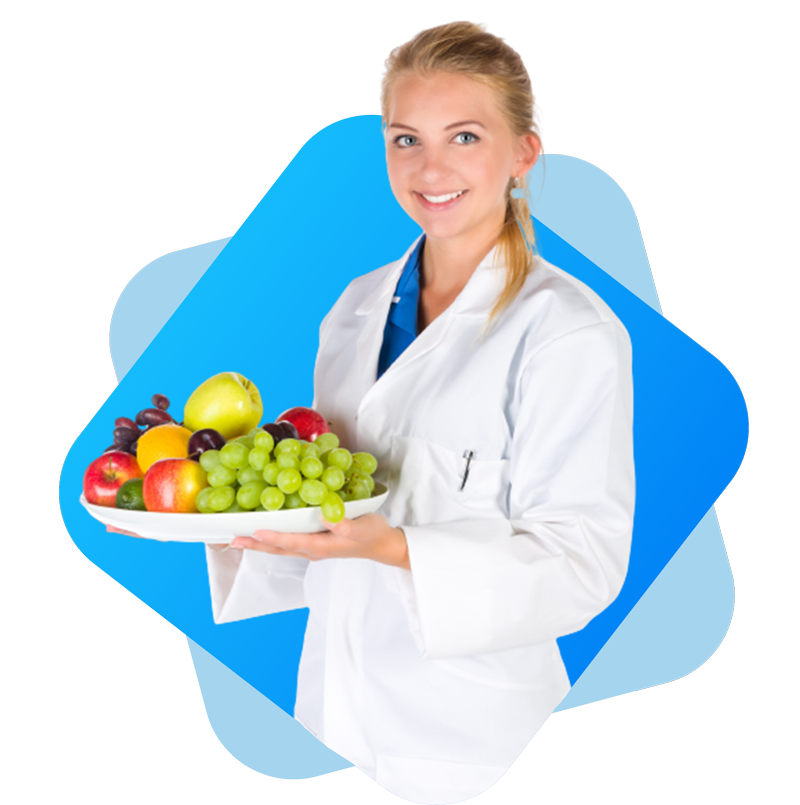
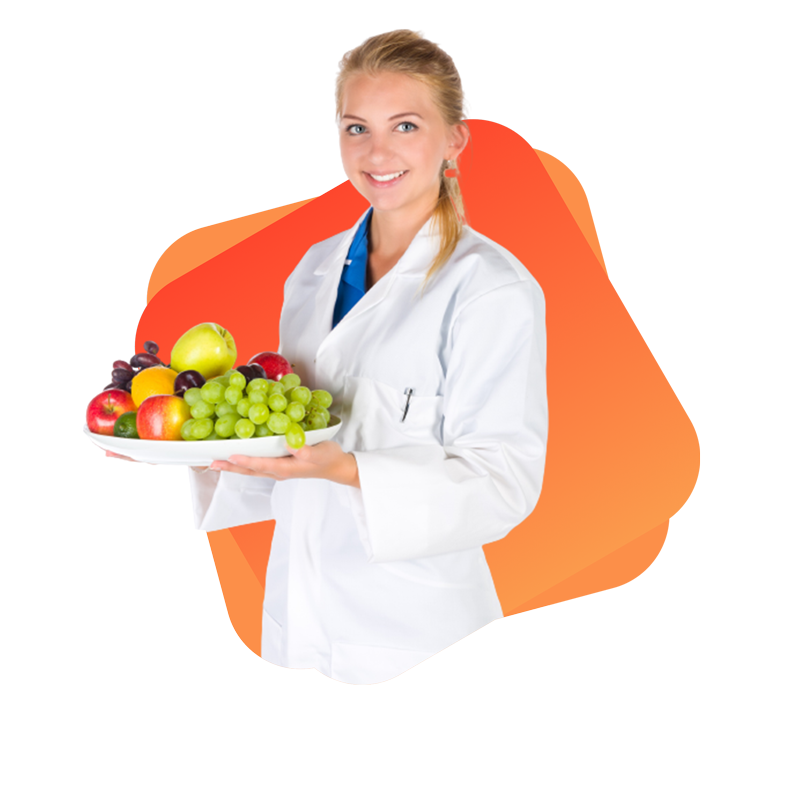
changed design

diff --git a/index.html b/index.html
@@ -106,21 +106,19 @@
       <div class="center-in-div">
         <div class="half-width">
             <p>
-                Apples are popular fruit, containing antioxidants, vitamins,
-                dietary fiber and a range of other nutrients.
+                "The way fruits were are really great. Hope to buy fresh and organic fruits soon.""
               </p>
           
-              <h4 class="testimonial-item">Apple</h4>
+              <h4>Phil Foden </h4>
            
                 <img class="testimonial-item " src="images/img-testimonial-person-1.png" alt="apple" />
               </div>
           <div class="half-width">
             <p>
-                Apples are popular fruit, containing antioxidants, vitamins,
-                dietary fiber and a range of other nutrients.
+                "Fruits were really fresh and organic. I recommend everyone to buy from them. "
               </p>
           
-              <h4 class="testimonial-item">Apple</h4>
+              <h4>Ian Morgan</h4>
            
                 <img class="testimonial-item " src="images/img-testimonial-person-2.png" alt="apple" />
               </div>
@@ -128,11 +126,11 @@
              
             
     </section>
-    <section>
+    <section class="center">
       <div>
         <h2>Contact Us</h2>
       </div>
-      <div>
+      <div class="center">
         <form>
           <input type="text" name="name" placeholder="Your Name" required />
           <input type="email" name="email" placeholder="Your Email" required />

diff --git a/style.css b/style.css
@@ -5,8 +5,11 @@ body {
 h1 {
   font-size: 50px;
 }
+h2 {
+  font-size: 30px;
+}
 .blue-color-word {
-  color: #058cf7;
+  color: salmon;
 }
 section {
   margin: 50px 0px;
@@ -15,7 +18,7 @@ section {
   display: flex;
 }
 #sec-about {
-  background-image: url(images/bg-about.jpg);
+  background-image: url(images/bg-about.png);
   background-repeat: no-repeat;
   background-size: cover;
   margin: 0;
@@ -23,11 +26,11 @@ section {
 .link-button {
   color: white;
   padding: 10px 20px;
-  background-image: linear-gradient(to right, #85c5fa, #058cf7);
+  background-image: linear-gradient(to right, salmon, tomato);
   text-decoration: none;
   border-radius: 50px;
   font-weight: 500;
-  box-shadow: 2px 2px 10px #85c5fa;
+  box-shadow: 2px 2px 10px salmon;
 }
 .half-width {
   width: 50%;
@@ -66,10 +69,12 @@ form button {
   width: 50%;
   margin: 5% 10%;
   display: flex;
+  box-shadow: 5px 5px 45px rgba(128, 128, 128, 0.24);
+  border-radius: 50%;
 }
 footer {
   background-color: black;
   color: rgb(148, 144, 144);
-  padding: 2%;
+  padding: 0.5%;
   text-align: center;
 }
